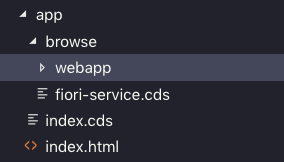
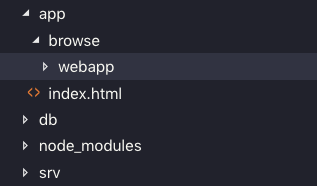
rework ex.09 - reduce cds files to 1

diff --git a/exercises/09/readme.md b/exercises/09/readme.md
@@ -16,7 +16,7 @@ Following the "convention over configuation" theme, the Node.js flavored CAP mod
 
 If there is an `app/` directory with content, it will serve that instead.
 
-:point_right: Create an `app/` directory, at the same level as the `db/` and `srv` directories, and create an `index.html` file within it, containing the following:
+:point_right: Create an `app/` directory, at the same level as the `db/` and `srv/` directories, and create an `index.html` file within it, containing the following:
 
 ```html
 <!DOCTYPE html>
@@ -46,8 +46,8 @@ To create a sandbox Fiori launchpad we'll need the UI5 runtime as well as artefa
 
 ```html
     <script>
-        window["sap-ushell-config"] = {
-            defaultRenderer: "fiori2",
+        window['sap-ushell-config'] = {
+            defaultRenderer: 'fiori2',
             applications: {
             }
         };
@@ -64,17 +64,22 @@ To create a sandbox Fiori launchpad we'll need the UI5 runtime as well as artefa
         data-sap-ui-frameOptions="allow"></script>
 
     <script>
-        sap.ui.getCore().attachInit(function() {
-            sap.ushell.Container.createRenderer("fiori2").placeAt("content")
-        })
+        sap.ui.getCore().attachInit(
+            () => sap.ushell.Container.createRenderer('fiori2').placeAt('content')
+        )
     </script>
 ```
+
+Here's a brief summary of what each of these `script` elements are for, in order of appearance in the file:
+
+1. Basic configuration for the Fiori launchpad sandbox (otherwise known as the "universal shell" or "ushell")
+1. Loading of the actual Fiori launchpad sandbox itself
+1. Loading and bootstrapping of SAPUI5
+1. Some JavaScript to declare a function to run when the initialization of SAPUI5 is complete; the function creates a launchpad and places it into the Document Object Model
 
 Reloading the browser tab should now show the beginnings of something recognizable as a Fiori launchpad:
 
 ![an empty Fiori launchpad](empty-fiori-launchpad.png)
-
-Note: You may see the three dots signifying a wait state - you can ignore this.
 
 
 ### 3. Introduce a basic UI app to the Fiori launchpad
@@ -87,15 +92,15 @@ The first thing to do is to add an entry to the sandbox launchpad configuration 
 
 ```javascript
 <script>
-    window["sap-ushell-config"] = {
-        defaultRenderer: "fiori2",
+    window['sap-ushell-config'] = {
+        defaultRenderer: 'fiori2',
         applications: {
-            "browse-books": {                                        // <--
-                title: "Browse Books",                               // <--
-                description: "Bookshop",                             // <--
-                additionalInformation: "SAPUI5.Component=bookshop",  // <--
-                applicationType : "URL",                             // <--
-                url: "/browse/webapp",                               // <--
+            'browse-books': {                                        // <--
+                title: 'Browse Books',                               // <--
+                description: 'Bookshop',                             // <--
+                additionalInformation: 'SAPUI5.Component=bookshop',  // <--
+                applicationType : 'URL',                             // <--
+                url: '/browse/webapp'                                // <--
             }                                                        // <--
         }
     };
@@ -107,108 +112,26 @@ Reloading the index page in the browser should show this:
 ![Fiori launchpad with tile](launchpad-with-tile.png)
 
 
-### 4. Bring in the main part of the app
-
+### 4. Create the app artefacts
 
 As we can see from the configuration we've just added, we're suggesting the app is a Component-based app (where the component name is "bookshop") and is to be found at (relative) URL `/browse/webapp`. Let's flesh that out in terms of directories and files now.
 
-First though let's look at a key artefact that will help us join together in our minds the two complementary worlds of CAP and Fiori. This artifact is a CDS file `index.cds` that we'll place at the same level as the `index.html` file, and it controls what gets served to Fiori frontends:
-
-- the app-specific annotated service
-- the annotations common to all apps
-
-:point_right: Create a file `index.cds` in the `app/` directory, and add the following content:
-
-```cds
-using from './browse/fiori-service';
-using my.bookshop as my from '../db/data-model';
-
-annotate my.Books with @(
-    UI: {
-        Identification: [ {Value:title} ],
-        SelectionFields: [ ID, author.name, stock ],
-        LineItem: [
-            {Value: ID},
-            {Value: title},
-            {Value: author.name},
-            {Value: author_ID, Label:'{i18n>AuthorID}'},
-            {Value: stock}
-        ],
-        HeaderInfo: {
-            TypeName: '{i18n>Book}',
-            TypeNamePlural: '{i18n>Books}',
-            Title: {Value: title},
-            Description: {Value: author.name}
-        }
-    },
-);
-
-// Books Elements
-annotate my.Books with {
-    ID @title:'{i18n>ID}' @UI.HiddenFilter;
-    title @title:'{i18n>Title}';
-    author @title:'{i18n>AuthorID}';
-    stock @title:'{i18n>Stock}';
-}
-
-// Authors Elements
-annotate my.Authors with {
-    ID @title:'{i18n>ID}' @UI.HiddenFilter;
-    name @title:'{i18n>AuthorName}';
-}
-```
-
-Note: You may see some warnings that there are no texts for the internationalization (i18n) identifiers. We'll fix this later, you can ignore the warnings for now.
-
-### 5. Create the app directory and the app-specific CDS file
-
-In the previous step, we have a `using` statement in the CDS file that refers to the `my.bookshop` resources from the data model in `db/data-model.cds`:
-
-```cds
-using my.bookshop as my from '../db/data-model';
-```
-
-But we also have a `using` statement referring to CDS resources (`fiori-service`):
-
-```
-using from './browse/fiori-service';
-```
-
-This is in a directory that doesn't yet exist (`browse`) - that's the directory where our app is to live: (we referred to it in a previous step in this exercise in the `url` property of the `sap-ushell-config` section in `index.html`).
-
 :point_right: Create the `browse/` directory as a child of the `app/` directory.
 
-:point_right: In this new `browse/` directory add a new file `fiori-service.cds` with this single line in it:
+:point_right: In this new `browse/` directory, create the `webapp/` directory that will contain the app files.
 
-```cds
-using CatalogService from '../../srv/cat-service';
-```
-
-At this stage your `app/` directory structure should look like this:
-
-![app directory structure](app-directory.png)
-
-The final thing to do in this step is to redeploy because we have added CDS artefacts.
-
-:point_right: Do this now, with `cds deploy`, before restarting the service with `cds serve all`.
-
-
-### 6. Create the app artefacts
-
-We've done all the hard work now, all that remains is to create just two files that will represent the app. This is because we are using Fiori Elements and driving the UI via annotations on the service.
-
-:point_right: In the `browse/` directory, alongside the `fiori-services.cds` file you created already, add a new directory `webapp/` that will contain the two app files.
+At this point the content of the `app/` directory should look like this:
 
 ![webapp directory](webapp-dir.png)
 
-:point_right: In this new `webapp/` directory, create a simple `Component.js` file (note the capitalization) with the following content:
+:point_right: In the new `webapp/` directory, create a simple `Component.js` file (note the capitalization of the filename) with the following content:
 
 ```js
 sap.ui.define(
-    ["sap/fe/AppComponent"],
-    ac => ac.extend("bookshop.Component", {
+    ['sap/fe/AppComponent'],
+    ac => ac.extend('bookshop.Component', {
         metadata: {
-            manifest: "json"
+            manifest: 'json'
         }
     })
 )
@@ -216,7 +139,7 @@ sap.ui.define(
 
 This is a modern UI5 component definition that points to a JSON configuration file (a manifest).
 
-:point_right: Create the manifest file `manifest.json` in the same directory, with the following contents:
+:point_right: Create the corresponding manifest file `manifest.json` in the same directory as `Component.js`, with the following content:
 
 ```json
 {
@@ -302,7 +225,67 @@ This is a modern UI5 component definition that points to a JSON configuration fi
 }
 ```
 
-### 7. Test the app
+### 5. Create a CDS index file
+
+This is the point where you can introduce an `index.cds` file, at the same level as the `index.html` file. This CDS index controls which services are exposed. 
+
+:point_right: Create a file `index.cds` in the `app/` directory, and add the following single line as the initial content:
+
+```cds
+using from '../srv/cat-service';
+```
+
+Note: At this point you can actually reload the UI; while you will see some semblance of an app, it will be mostly empty.
+
+
+### 6. Add annotations for the service
+
+Now let's look at important content that will help us join together in our minds the two complementary worlds of CAP and Fiori. This content is to be added to `index.cds` and controls what gets served to Fiori frontends, via annotations that form a rich layer of metadata over the top of the service.
+
+:point_right: Below the initial line (`using from ...`) that you added to `index.cds` in the previous step, add the following content:
+
+```cds
+annotate CatalogService.Books with @(
+    UI: {
+        Identification: [ {Value: title} ],
+        SelectionFields: [],
+        LineItem: [
+            {Value: ID},
+            {Value: title},
+            {Value: author.name},
+            {Value: author_ID},
+            {Value: stock}
+        ],
+        HeaderInfo: {
+            TypeName: '{i18n>Book}',
+            TypeNamePlural: '{i18n>Books}',
+            Title: {Value: title},
+            Description: {Value: author.name}
+        }
+    }
+);
+
+annotate CatalogService.Books with {
+    ID @title:'{i18n>ID}' @UI.HiddenFilter;
+    title @title:'{i18n>Title}';
+    author @title:'{i18n>AuthorID}';
+    stock @title:'{i18n>Stock}';
+}
+
+annotate CatalogService.Authors with {
+    ID @title:'{i18n>ID}' @UI.HiddenFilter;
+    name @title:'{i18n>AuthorName}';
+}
+```
+
+Note: You may see some warnings that there are no texts for the internationalization (i18n) identifiers. We'll fix this shortly, you can ignore the warnings for now.
+
+The final thing to do in this step is to redeploy because we have added CDS artefacts.
+
+:point_right: Do this now, with `cds deploy`, before restarting the service with `cds serve all`.
+
+
+### 6. Test the app
 
 The app should be ready to invoke. Reload the Fiori launchpad and select the tile. It should open up into a nice List Report style Fiori Elements app - all driven from the service's annotations:
 
